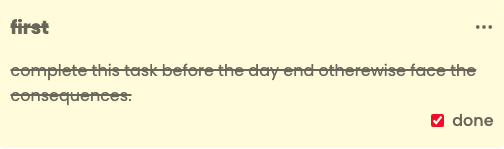
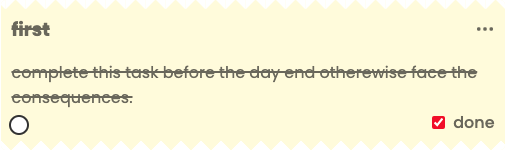
Add task and Edit task

diff --git a/src/components/AddTask.js b/src/components/AddTask.js
@@ -1,17 +1,36 @@
-import React,{useState} from "react";
+import React,{useState,useRef,useEffect} from "react";
 import classes from "./AddTask.module.scss";
 import { v4 as uuidv4 } from 'uuid';
 
 
 const AddTask = (props) => {
-  const [enteredTitle,setEnteredTitle] = useState("");
-  const [enteredDescription,setEnteredDescription] = useState("");
-  const [isWorkSelected,setIsWorkSelected] = useState(false);
-  const [isFamilySelected,setIsFamilySelected] = useState(false);
-  const [isStudySelected,setIsStudySelected] = useState(false);
-  const [isEntertainmentSelected,setIsEntertainmentSelected] = useState(false);
-//   const [adding ,setAdding] = useState(true);
-  
+  const [enteredTitle,setEnteredTitle] = useState(props.editedTask.title?props.editedTask.title:"");
+  const [enteredDescription,setEnteredDescription] = useState(props.editedTask.description?props.editedTask.description:"");
+  const [isWorkSelected,setIsWorkSelected] = useState(props.editedTask.work?props.editedTask.work:false);
+  const [isFamilySelected,setIsFamilySelected] = useState(props.editedTask.family?props.editedTask.family:false);
+  const [isStudySelected,setIsStudySelected] = useState(props.editedTask.study?props.editedTask.study:false);
+  const [isEntertainmentSelected,setIsEntertainmentSelected] = useState(props.editedTask.entertainment?props.editedTask.entertainment:false);
+
+  const myWorkRef = useRef();
+  const myFamilyRef = useRef();
+  const myStudykRef = useRef();
+  const myEntertainmentRef = useRef();
+
+  useEffect(() => {
+      if(isEntertainmentSelected)
+        myEntertainmentRef.current.focus();
+
+      if(isWorkSelected)
+         myWorkRef.current.focus();
+
+      if(isFamilySelected)
+        myFamilyRef.current.focus();
+
+       if(isStudySelected)
+         myStudykRef.current.focus();
+    
+  }, []);
+
   const titleHandler = (event)=>{
     setEnteredTitle(event.target.value);
   }
@@ -46,9 +65,8 @@ const AddTask = (props) => {
         family:isFamilySelected,
         entertainment:isEntertainmentSelected,
         study:isStudySelected,
-        id:uuidv4()
+        id:props.editedTask.id?props.editedTask.id : uuidv4()
     }
-    console.log(newTaskData);
     props.onNewTaskAdded(newTaskData);
 
     setEnteredTitle('');
@@ -73,11 +91,23 @@ const AddTask = (props) => {
     props.closeTaskTab();
   }
 
+  const closeTaskHandler=()=>{
+
+    setEnteredTitle('');
+    setEnteredDescription('');
+    setIsWorkSelected(false);
+    setIsFamilySelected(false);
+    setIsEntertainmentSelected(false);
+    setIsStudySelected(false);
+
+    props.closeTaskTab();
+  }
+
   return (
     <form className={classes.addTask} onClick={props.closeTaskTab} onSubmit={submitHandler}>
       <div className={classes.addTask__card} onClick={(event) => event.stopPropagation()}>
         <div className={classes.addTask__card__header}>
-          <button className={classes.addTask__card__header__cancel} type="button" onClick={props.closeTaskTab}>
+          <button className={classes.addTask__card__header__cancel} type="button" onClick={closeTaskHandler}>
             Cancel
           </button>
           <button className={classes.addTask__card__header__add} type="submit">Add</button>
@@ -108,19 +138,19 @@ const AddTask = (props) => {
           <div className={classes.addTask__card__form__tags}>
             <label>Tags</label>
             <div className={classes.addTask__card__form__tags__ul}>
-                <button type="button" className={classes.addTask__card__form__tags__ul__button} onClick={workToggleHandler}>
+                <button type="button" ref={myWorkRef} className={classes.addTask__card__form__tags__ul__button} onClick={workToggleHandler}>
                     <span className={classes.addTask__card__form__tags__ul__button__work} />
                     <span>work</span>
                 </button>
-                <button type="button" className={classes.addTask__card__form__tags__ul__button} onClick={familyToggleHandler}>
+                <button type="button" ref={myFamilyRef} className={classes.addTask__card__form__tags__ul__button} onClick={familyToggleHandler}>
                     <span className={classes.addTask__card__form__tags__ul__button__family} />
                     <span>family</span>
                 </button>
-                <button type="button" className={classes.addTask__card__form__tags__ul__button} onClick={entertainmentToggleHandler}>
+                <button type="button" ref={myEntertainmentRef} className={classes.addTask__card__form__tags__ul__button} onClick={entertainmentToggleHandler}>
                     <span className={classes.addTask__card__form__tags__ul__button__enter} />
                     <span>entertainment</span>
                 </button>
-                <button type="button" className={classes.addTask__card__form__tags__ul__button} onClick={studyToggleHandler}>
+                <button type="button" ref={myStudykRef} className={classes.addTask__card__form__tags__ul__button} onClick={studyToggleHandler}>
                     <span className={classes.addTask__card__form__tags__ul__button__study} />
                     <span>study</span>
                 </button>

diff --git a/src/pages/Todo.js b/src/pages/Todo.js
@@ -91,13 +91,17 @@ const Todo = () => {
   const [familyTasks, setFamilyTasks] = useState(familyTasksList);
   const [studyTasks, setStudyTasks] = useState(studyTasksList);
   const [entertainmentTasks, setEntertainmentTasks] = useState(entertainmentTasksList);
+  const [editedTask , setEditedTask] = useState({});
+//   const [editdescription,setEditDescription] = useState("");
+//   const [nonEditField , setNonEditField] = useState("");
+//   const [editId,setEditId] = useState();
 
   const newTaskMenuHandler = () => {
+    setEditedTask({});
     setAddTaskMenu((p) => !p);
   };
 
   const DoneClickedHandler = (taskInfo)=>{
-        console.log(taskInfo);
 
         if(taskInfo.field === "work"){
             const updatedWorkList = workTasks.map((obj)=>{
@@ -161,39 +165,81 @@ const Todo = () => {
   }
 
   const newTaskAddedHandler = (newTask) => {
-
     const createTask = {
       title: newTask.title,
       description: newTask.description,
       isDone: false,
       id:newTask.id
     };
-
     if (newTask.work) {
       setWorkTasks((prevState) => {
         createTask.field = "work";
-        return [createTask, ...prevState];
+        return updateObject(prevState,createTask);
       });
     } else if (newTask.family) {
       setFamilyTasks((prevState) => {
         createTask.field = "family";
-        return [createTask, ...prevState];
+        return updateObject(prevState,createTask);
       });
     } else if (newTask.study) {
       setStudyTasks((prevState) => {
         createTask.field = "study";
-        return [createTask, ...prevState];
+        return updateObject(prevState,createTask);
       });
     } else {
       setEntertainmentTasks((prevState) => {
         createTask.field = "entertainment";
-        return [createTask, ...prevState];
+        return updateObject(prevState,createTask);
       });
     }
   };
 
-  const editHandler = ()=>{
-      
+  const updateObject = function(prevState,createTask){
+    for(let i =0;i<prevState.length;i++){
+        if(prevState[i].id === createTask.id)
+        {
+            prevState[i].title = createTask.title;
+            prevState[i].description = createTask.description;
+            prevState[i].isDone = createTask.isDone;
+            return prevState;
+        }
+    }
+    return [createTask,...prevState];
+  }
+
+  const editHandler = (taskInfo)=>{
+
+    let editedTask = [];
+    if (taskInfo.field === 'work') {
+        editedTask = workTasks.filter((item)=>{
+           return item.id === taskInfo.id
+       })
+       
+    } else if (taskInfo.field === 'family') {
+         editedTask = familyTasks.filter((item)=>{
+            return item.id === taskInfo.id
+        })
+    } else if (taskInfo.field === 'study') {
+     editedTask = studyTasks.filter((item)=>{
+            return item.id === taskInfo.id
+        })
+    } else{
+         editedTask = entertainmentTasks.filter((item)=>{
+            return item.id === taskInfo.id
+        })
+    }
+
+    const taskdata = {
+        title : editedTask[0].title,
+        description : editedTask[0].description,
+        work:editedTask[0].field==="work" ? true : false,
+        family:editedTask[0].field==="family" ? true : false,
+        entertainment:editedTask[0].field==="entertainment" ? true : false,
+        study:editedTask[0].field==="study" ? true : false,
+        id:taskInfo.id
+    }
+    setAddTaskMenu((p) => !p);
+    setEditedTask(taskdata);
   }
 
   return (
@@ -255,6 +301,7 @@ const Todo = () => {
       </div>
       {addTaskMenu && (
         <AddTask
+          editedTask = {editedTask}
           onNewTaskAdded={newTaskAddedHandler}
           closeTaskTab={newTaskMenuHandler}
         />

diff --git a/src/components/TaskCard.module.scss b/src/components/TaskCard.module.scss
@@ -10,6 +10,9 @@
     display: flex;
     flex-direction: column;
     justify-content: center;
+    position: relative;
+    overflow: hidden;
+    // box-shadow: inset 0px -1px 10px rgba($color: #000000, $alpha: 0.5);
 
     @include breakpoint(md){
         width: 100%;
@@ -22,6 +25,21 @@
         justify-content: space-between;
         align-items: center;
         padding-bottom: 1rem;
+
+        span{
+            width: 20px;
+            height: 20px;
+            border-radius: 50%;
+            background: $primaryBg;
+            border: 2px solid #333;
+            position: absolute;  
+            left: 8px;  
+            bottom: 15px;
+            box-shadow: inset 0px -1px 5px rgba($color: #000000, $alpha: 0.5);
+           
+        }
+
+        
 
         &__menuContainer{
             display: flex;
@@ -58,6 +76,34 @@
         &:hover{
             transform: scale(1.1,1.1);
         }
+    }
+
+    &::before , &::after{
+        content: '';
+        position: absolute;
+        width: 100.3%;
+        height: 10px;
+        
+        left: 0;
+        background: linear-gradient(
+            45deg ,
+            transparent 33.334%, $primaryBg 33.333% , $primaryBg 66.667% , transparent 66.667%
+        ),
+        linear-gradient(
+            -45deg ,
+            transparent 33.333%, $primaryBg 33.333% , $primaryBg 66.667% , transparent 66.667%
+        );
+        background-size: 20px 40px;
+    }
+
+    &::before{
+        top: 0;
+        transform: rotate(180deg);
+    }
+
+    &::after{
+        bottom: 0
+        
     }
 }
 

diff --git a/src/components/StudyTasks.js b/src/components/StudyTasks.js
@@ -12,13 +12,17 @@ const StudyTasks = (props)=>{
         props.deleteHandler(taskInfo);
     }
 
+    const editHandler = (taskInfo)=>{
+        props.editHandler(taskInfo);
+    }
+
     return(
         <div className={classes.tasks}>
             <div className={classes.tasks__container}>
             {
                 props.studyTasks.map((item)=>{
                     return(
-                        <TaskCard deleteHandler={deleteHandler} key={item.id} field={item.field} id={item.id} isDoneClicked={doneClickHander} title={item.title} description={item.description} isDone={item.isDone}/>
+                        <TaskCard editHandler={editHandler} deleteHandler={deleteHandler} key={item.id} field={item.field} id={item.id} isDoneClicked={doneClickHander} title={item.title} description={item.description} isDone={item.isDone}/>
                     );
                 })
             }

diff --git a/src/components/EntertainmentTasks.js b/src/components/EntertainmentTasks.js
@@ -12,13 +12,17 @@ const EntertainmentTasks = (props)=>{
     props.deleteHandler(taskInfo);
 }
 
+const editHandler = (taskInfo)=>{
+    props.editHandler(taskInfo);
+}
+
     return(
         <div className={classes.tasks}>
             <div className={classes.tasks__container}>
             {
                 props.entertainmentTasks.map((item)=>{
                     return(
-                        <TaskCard deleteHandler={deleteHandler} key={item.id} field={item.field} id={item.id} isDoneClicked={doneClickHander} title={item.title} description={item.description} isDone={item.isDone}/>
+                        <TaskCard editHandler={editHandler} deleteHandler={deleteHandler} key={item.id} field={item.field} id={item.id} isDoneClicked={doneClickHander} title={item.title} description={item.description} isDone={item.isDone}/>
                     );
                 })
             }

diff --git a/src/components/FamilyTasks.js b/src/components/FamilyTasks.js
@@ -12,13 +12,17 @@ const FamilyTasks = (props)=>{
     props.deleteHandler(taskInfo);
 }
 
+const editHandler = (taskInfo)=>{
+    props.editHandler(taskInfo);
+}
+
     return(
         <div className={classes.tasks}>
             <div className={classes.tasks__container}>
             {
                 props.familyTasks.map((item)=>{
                     return(
-                        <TaskCard deleteHandler={deleteHandler} key={item.id} field={item.field} id={item.id} isDoneClicked={doneClickHander} title={item.title} description={item.description} isDone={item.isDone}/>
+                        <TaskCard editHandler={editHandler} deleteHandler={deleteHandler} key={item.id} field={item.field} id={item.id} isDoneClicked={doneClickHander} title={item.title} description={item.description} isDone={item.isDone}/>
                     );
                 })
             }

diff --git a/src/components/TaskCard.js b/src/components/TaskCard.js
@@ -48,6 +48,7 @@ const TaskCard = (props)=>{
         <div className={classes.taskCard} onClick={closeMenu}>
             <div className={classes.taskCard__title}>
                 <h3 className={isDone ? classes.isDone : ""}>{props.title}</h3>
+                <span/>
                 <div className={classes.taskCard__title__menuContainer}>
                     <BsThreeDots className={classes.taskCard__title__menuContainer__menu} onClick={toggleMenu}/>
                     { menuOpen && <TaskMenuPopup editHandler={editHandler} deleteHandler={deleteHandler} onClick = {(event) => event.stopPropagation()}/>}

diff --git a/src/pages/GetStarted.module.scss b/src/pages/GetStarted.module.scss
@@ -136,7 +136,7 @@
         height: 110px;
         background: $secondryBg;
         border: 0;
-        box-shadow:0px 5px 10px 1px rgba(0, 0, 0, 0.2);
+        // box-shadow:0px 5px 10px 1px rgba(0, 0, 0, 0.2);
         border-radius: $borderRadius;
 
         @include breakpoint(md){

diff --git a/src/components/AddTask.module.scss b/src/components/AddTask.module.scss
@@ -150,7 +150,7 @@
             border: 0;
             
 
-            &:hover, &:focus{
+            &:hover, &:focus {
                  background: rgb(41, 41, 41);
             }
 
